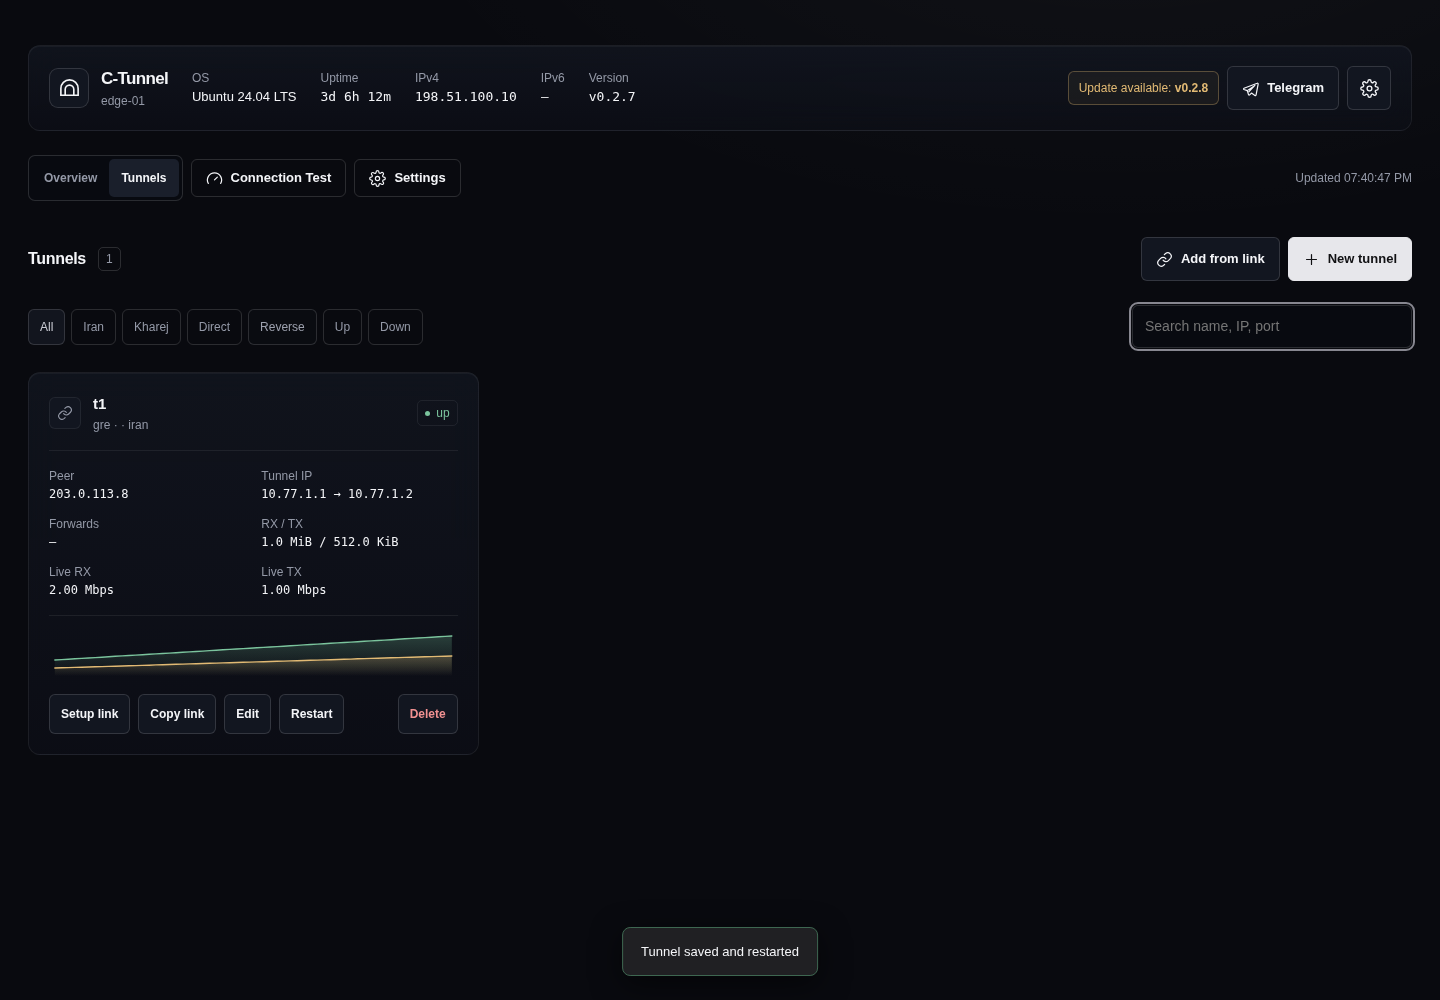
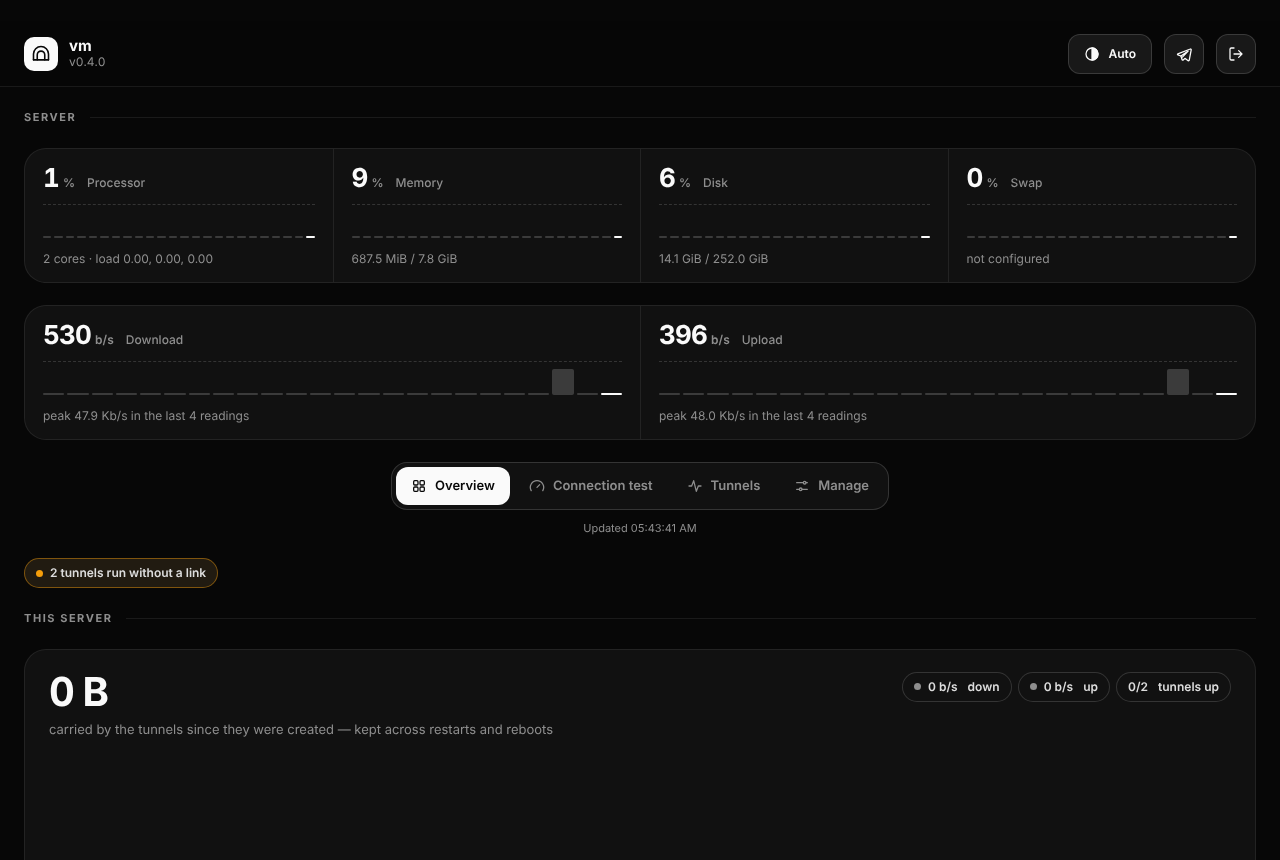
docs: refresh panel screenshots and README for 0.4
Screenshots are regenerated from the 0.4 panel with Chromium (desktop,
mobile and settings), and the README links to the current changelog.

diff --git a/README.md b/README.md
@@ -286,7 +286,7 @@ In **Manage → Panel settings**, customize the base path and domain. Set the pa
 
 **Connection test** accepts the peer's `ctunnel-test://` link, measures methods separately, and offers **Deploy Best Tunnel** for a successful measured result. Deployment creates this endpoint and returns a setup link to apply on the peer. Carrier-shape tests do not replace real kernel tunnel checks.
 
-The screenshots use synthetic demonstration data and are generated from the actual UI with Chromium. See [mobile](docs/panel-mobile.png), [settings](docs/panel-settings.png), and [0.2.1 changes and upgrade notes](CHANGELOG.md).
+The screenshots use synthetic demonstration data and are generated from the actual UI with Chromium. See [mobile](docs/panel-mobile.png), [settings](docs/panel-settings.png), and [changes and upgrade notes](CHANGELOG.md).
 
 
 ## Command line
